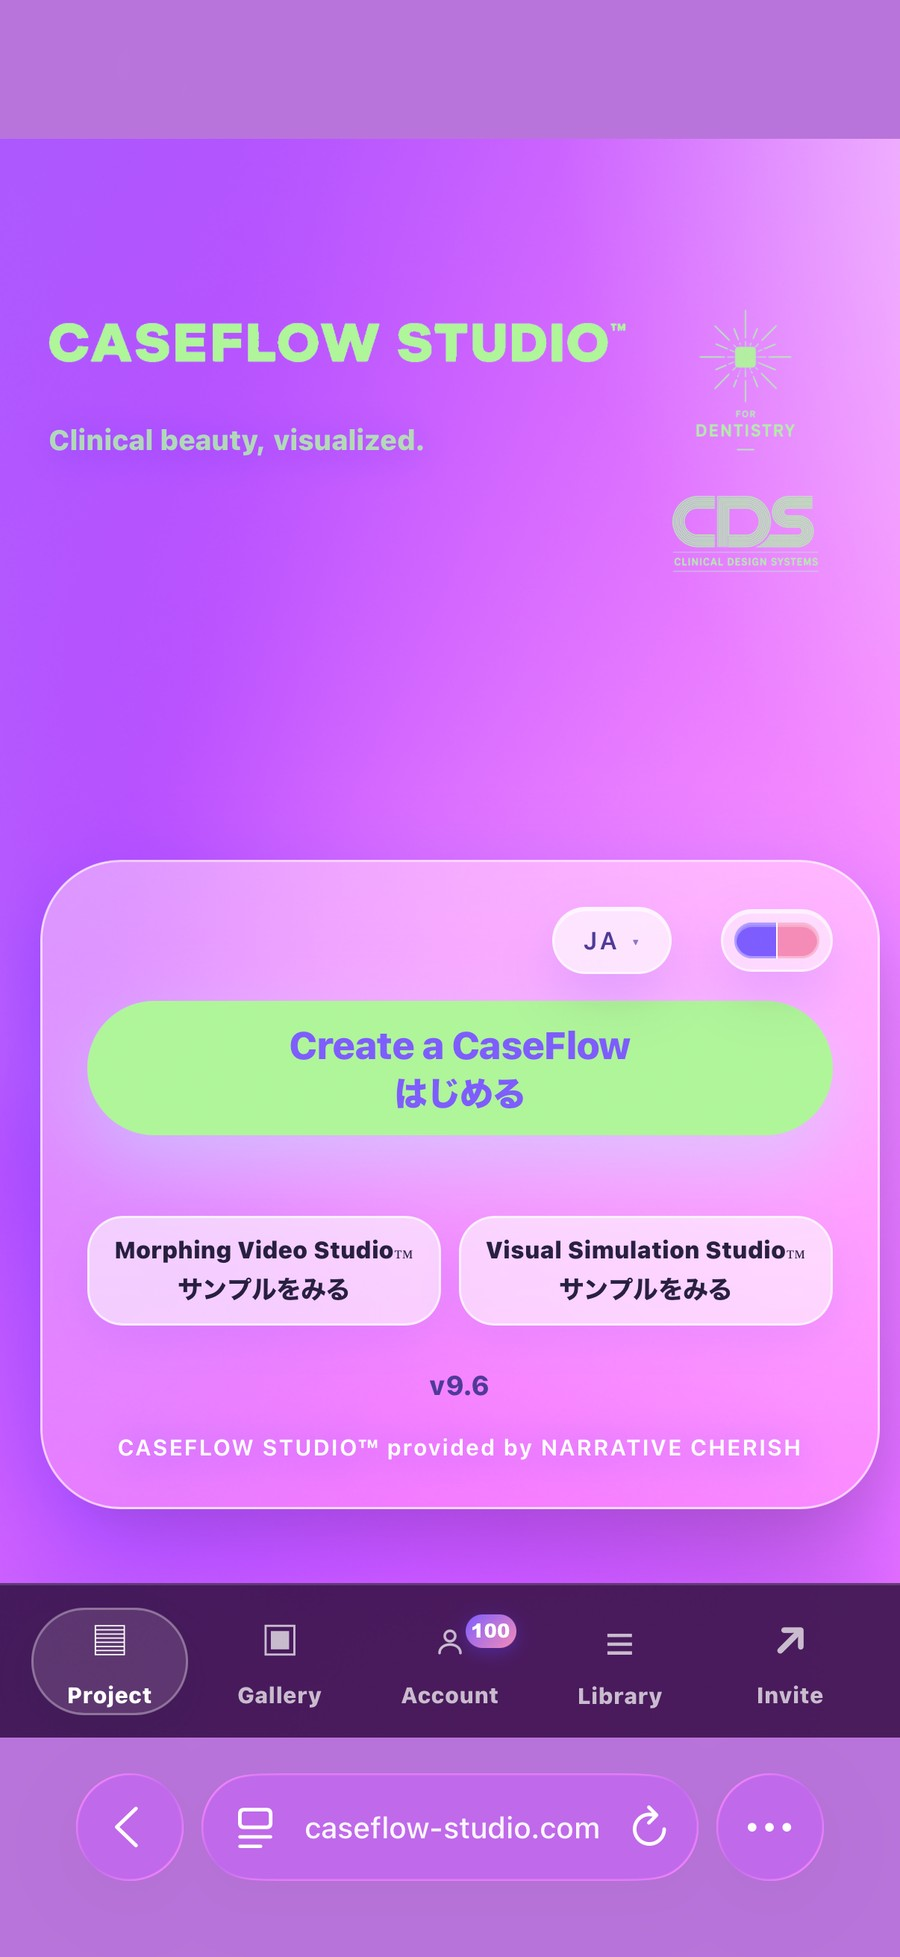
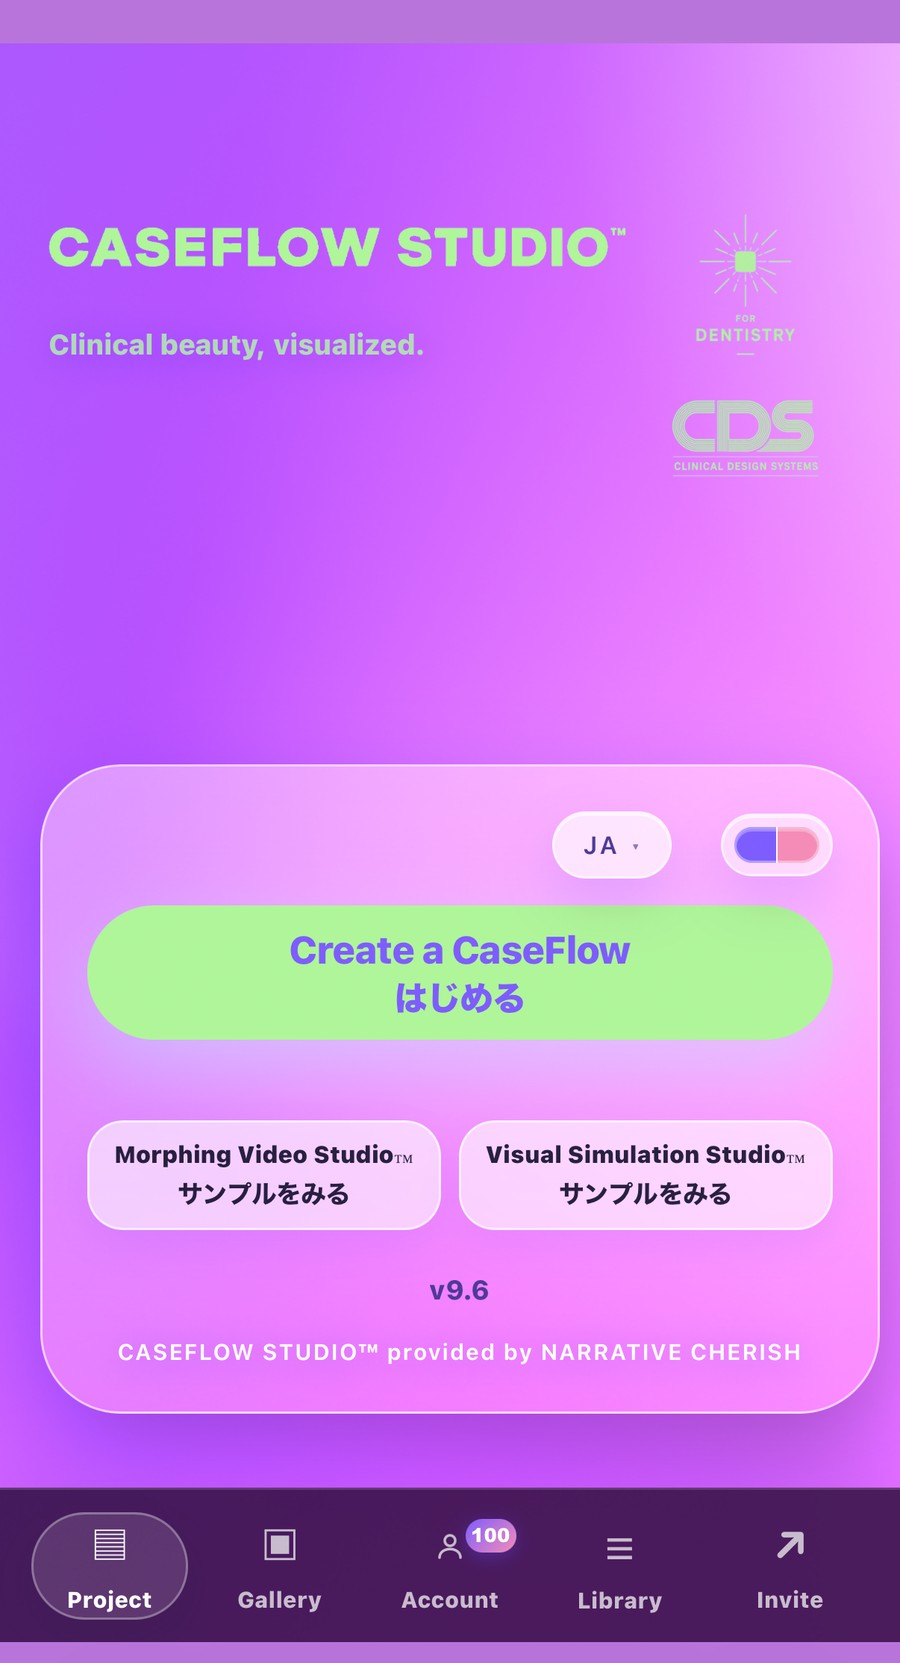
fix(landing): replace IN RAINBOWS with hourglass; fix phone mock aspect (clean iPhone 17 Pro app screen)
- CASEFLOW SIGNAL: drop the IN RAINBOWS stacked-rainbow treatment (too much);
  anchor the section with the bold hourglass artwork (transparent webp) centered
  over the gradient, keeping the eyebrow / heading / body / signal wave.
- Phone mock: the full-device screenshot (incl. Safari chrome + dead space) read
  as abnormally tall. Re-crop the attached iPhone 17 Pro capture to the clean app
  screen (status bar + browser toolbar removed) and set the frame aspect to that
  ratio (1206/2228 ≈ 0.54) so the mock looks like a real phone, not elongated.

Claude-Session: https://claude.ai/code/session_013CjbhkANmfkSwZxXfoUWVv

diff --git a/caseflow_landing.html b/caseflow_landing.html
@@ -261,7 +261,7 @@ body::before{
    so the Hero reads unmistakably as the real CaseFlow Studio top page. */
 .lpPhoneWrap{display:flex;justify-content:center;width:100%}
 /* iPhone 17 Pro proportioned frame holding the real top-screen capture */
-.lpPhone{position:relative;width:min(274px,76vw);aspect-ratio:1206/2622;border-radius:46px;padding:8px;
+.lpPhone{position:relative;width:min(280px,78vw);aspect-ratio:1206/2228;border-radius:44px;padding:8px;
   background:linear-gradient(160deg,#2a2140,#140d24);box-shadow:0 34px 80px rgba(20,10,45,.5);border:1px solid rgba(255,255,255,.16)}
 .lpPhoneScreen{position:relative;width:100%;height:100%;border-radius:40px;overflow:hidden;background:#b07af0}
 .lpPhoneShot{width:100%;height:100%;object-fit:cover;object-position:center;display:block}
@@ -585,21 +585,14 @@ html[dir="rtl"] .lpHeadWrap,html[dir="rtl"] .lpBody{margin-left:auto}
   </div>
 </section>
 
-<!-- ===== CASEFLOW SIGNAL (IN RAINBOWS homage) ===== -->
-<section class="lpSection lpSignal lpRainbowBand" id="signal">
-  <div class="wrap lpHeadWrap">
+<!-- ===== CASEFLOW SIGNAL (hourglass anchor) ===== -->
+<section class="lpSection lpSignal" id="signal">
+  <div class="wrap lpHeadWrap" style="text-align:center;margin-left:auto;margin-right:auto">
+    <img src="media/inline/art-hourglass.webp" alt="" aria-hidden="true" class="lpFloat" loading="lazy" decoding="async" style="display:block;width:min(200px,50vw);margin:0 auto 22px;filter:drop-shadow(0 16px 40px rgba(20,10,45,.4))">
     <p class="lpEyebrow" data-i18n="signal.eyebrow">Caseflow Signal</p>
-    <div class="lpRainbowStack" aria-hidden="true">
-      <span class="r1">CASEFLOW<span class="s">/</span></span>
-      <span class="r2">STUDIO<span class="s">/</span></span>
-      <span class="r3">CASEFLOW<span class="s">/</span></span>
-      <span class="r4">STUDIO<span class="s">/</span></span>
-      <span class="r5">CASEFLOW<span class="s">/</span></span>
-      <span class="r6">STUDIO</span>
-    </div>
     <h2 data-i18n="signal.h2">見えない治療意図を、視覚の信号へ。</h2>
-    <p class="lpBody" data-i18n="signal.body">臨床の感覚と、人工的な光のあいだに生まれるビジュアルレイヤー。Between clinical intention and visual memory.</p>
-    <svg class="lpSignalWave" viewBox="0 0 520 60" aria-hidden="true"><path d="M0 30 Q 32 4 65 30 T 130 30 T 195 30 T 260 30 T 325 30 T 390 30 T 455 30 T 520 30"/></svg>
+    <p class="lpBody" style="margin-left:auto;margin-right:auto" data-i18n="signal.body">臨床の感覚と、人工的な光のあいだに生まれるビジュアルレイヤー。Between clinical intention and visual memory.</p>
+    <svg class="lpSignalWave" viewBox="0 0 520 60" aria-hidden="true" style="margin-left:auto;margin-right:auto"><path d="M0 30 Q 32 4 65 30 T 130 30 T 195 30 T 260 30 T 325 30 T 390 30 T 455 30 T 520 30"/></svg>
   </div>
 </section>
 
